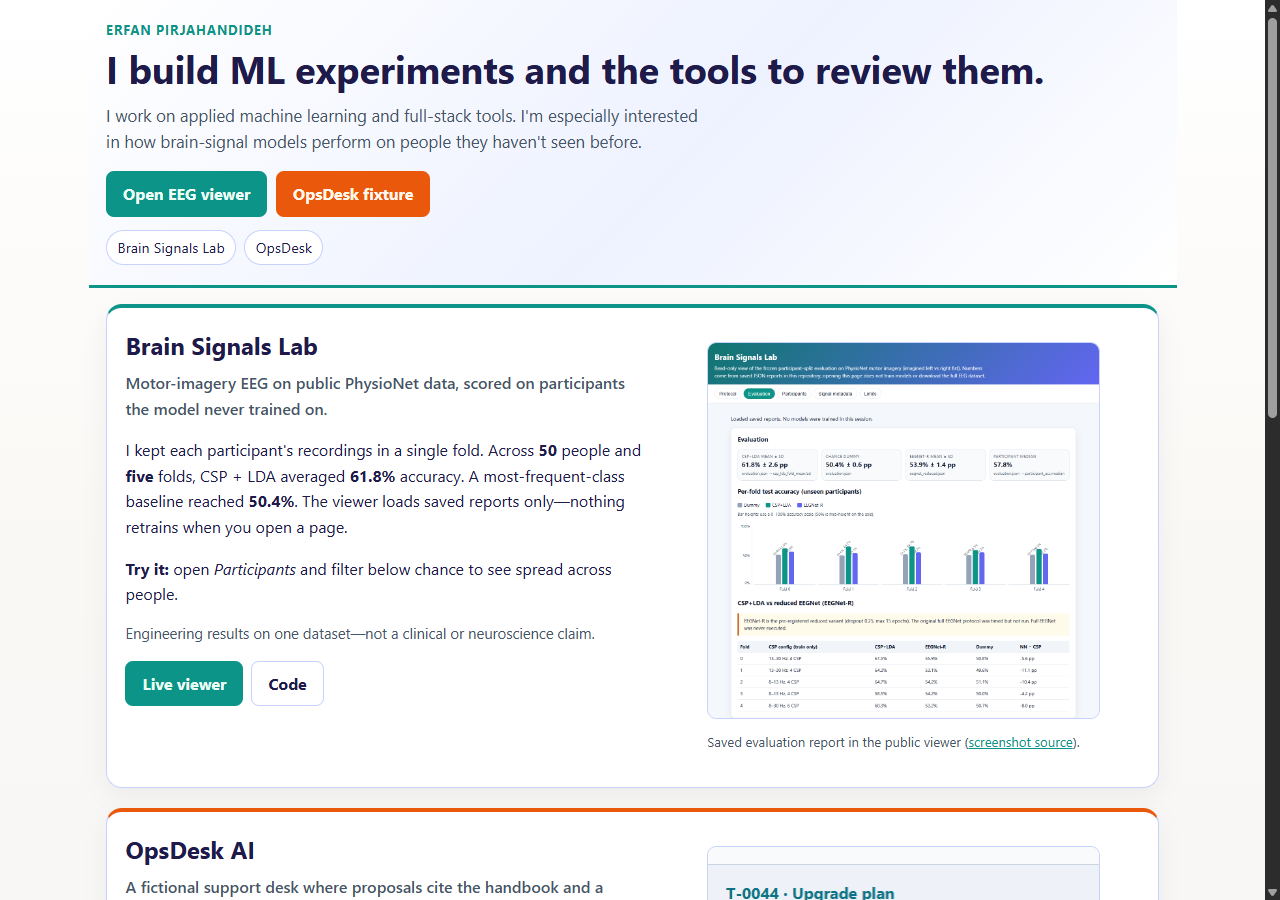
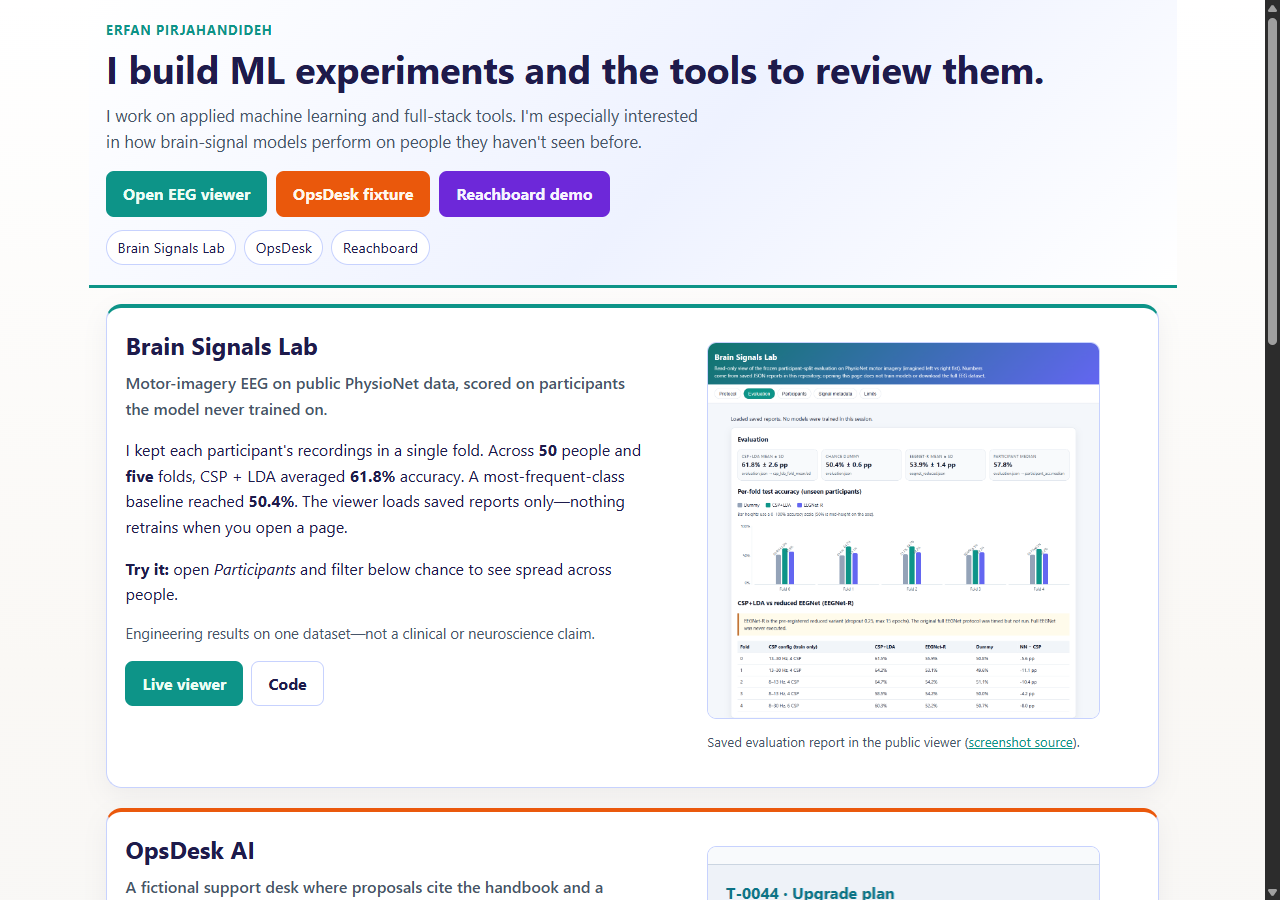
Add Reachboard to portfolio with honest Django screenshot labelling.
First-person copy; browser simulation button points to verified Pages URL.
Catalogue image SHA matches local Django evidence, not the static fixture UI.

Changed region(s): [[0.3438, 0.1867, 0.5, 0.2489], [0.9688, 0.3733, 1.0, 0.4667], [0.25, 0.2489, 0.3438, 0.28]]

diff --git a/site/index.html b/site/index.html
@@ -18,11 +18,13 @@
     <div class="action-strip" aria-label="Live demos">
       <a class="btn btn-teal" href="https://erfanpj.github.io/brain-signals-lab/viewer/">Open EEG viewer</a>
       <a class="btn btn-orange" href="https://erfanpj.github.io/opsdesk-ai/">OpsDesk fixture</a>
+      <a class="btn btn-violet" href="https://erfanpj.github.io/reachboard-showcase/">Reachboard demo</a>
     </div>
 
     <nav class="jump-nav" aria-label="On this page">
       <a href="#brain-signals-lab">Brain Signals Lab</a>
       <a href="#opsdesk-ai">OpsDesk</a>
+      <a href="#reachboard-showcase">Reachboard</a>
     </nav>
   </header>
 
@@ -64,6 +66,26 @@
           <img src="assets/opsdesk-fixture-simulation-mobile.png" width="390" height="844" alt="OpsDesk mobile fixture showing a receipt after simulated approval.">
         </a>
         <figcaption>Mobile-width fixture replay (<a href="assets/ATTRIBUTION.md">screenshot source</a>).</figcaption>
+      </figure>
+    </article>
+
+    <article class="case case-reach" id="reachboard-showcase">
+      <div class="case-copy">
+        <h2>Reachboard showcase</h2>
+        <p class="case-lede">I built a fictional media-buying catalogue where the server owns cart totals and campaigns move draft → awaiting payment.</p>
+        <p>I seeded six packages with channel, placement, and <strong>RB credits</strong> prices. In the sample journey, Echo plus Northline is <strong>75</strong> credits. When I run Django locally, checkout is POST-only with CSRF and per-user reset. The public link is a separate browser simulation with the same prices—not the live app.</p>
+        <p class="try-line"><strong>Try the simulation:</strong> add Echo, review cart → draft, submit, then reset and shop again.</p>
+        <p class="note">The screenshot is from my local Django catalogue; the button opens the verified static fixture on GitHub Pages.</p>
+        <p class="links">
+          <a class="btn btn-violet" href="https://erfanpj.github.io/reachboard-showcase/">Browser simulation</a>
+          <a class="btn btn-ghost" href="https://github.com/erfanpj/reachboard-showcase">Code</a>
+        </p>
+      </div>
+      <figure class="case-media">
+        <a href="assets/reachboard-django-catalogue-desktop.png" target="_blank" rel="noopener">
+          <img src="assets/reachboard-django-catalogue-desktop.png" width="1280" height="720" alt="Local Django Reachboard catalogue with fictional packages and cart panel.">
+        </a>
+        <figcaption>Local Django catalogue with fictional packages (<a href="assets/ATTRIBUTION.md">screenshot source</a>). Live browser simulation linked above.</figcaption>
       </figure>
     </article>
 

diff --git a/site/styles.css b/site/styles.css
@@ -6,6 +6,7 @@
   --teal: #0d9488;
   --teal-dark: #042f2e;
   --orange: #ea580c;
+  --violet: #6d28d9;
   --border: #c7d2fe;
   --focus: #f59e0b;
   --max: 68rem;
@@ -133,6 +134,10 @@ main {
   border-top: 4px solid var(--orange);
 }
 
+.case-reach {
+  border-top: 4px solid var(--violet);
+}
+
 @media (min-width: 860px) {
   .case {
     grid-template-columns: 1.05fr 0.95fr;
@@ -184,6 +189,11 @@ main {
 .btn-orange {
   background: var(--orange);
   color: #fff7ed;
+}
+
+.btn-violet {
+  background: var(--violet);
+  color: #f5f3ff;
 }
 
 .btn-ghost {

diff --git a/site/assets/ATTRIBUTION.md b/site/assets/ATTRIBUTION.md
@@ -6,5 +6,6 @@ Images are committed copies from published project repositories (not stock art).
 |---|---|---|---|
 | `assets/brain-viewer-evaluation.png` | [erfanpj/brain-signals-lab](https://github.com/erfanpj/brain-signals-lab) | `docs/evidence/viewer-evaluation.png` | Evaluation section of the public static viewer evidence set. |
 | `assets/opsdesk-fixture-simulation-mobile.png` | [erfanpj/opsdesk-ai](https://github.com/erfanpj/opsdesk-ai) | `docs/images/opsdesk-fixture-simulation-mobile.png` | Mobile-width fixture replay (390×844). |
[1 lines of base64/hex data omitted]
 
 Licences follow each upstream repository (Brain: MIT + data citation in repo; OpsDesk: MIT).
